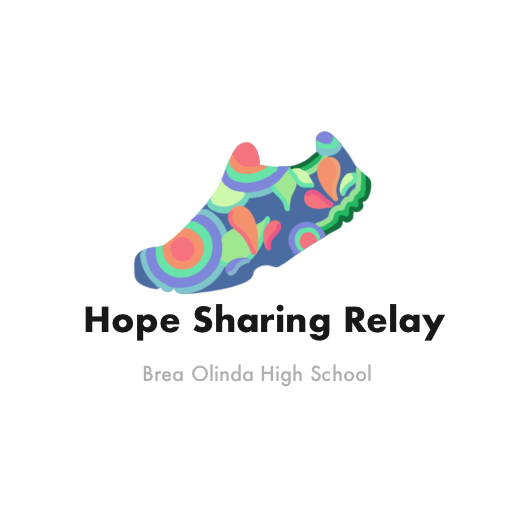
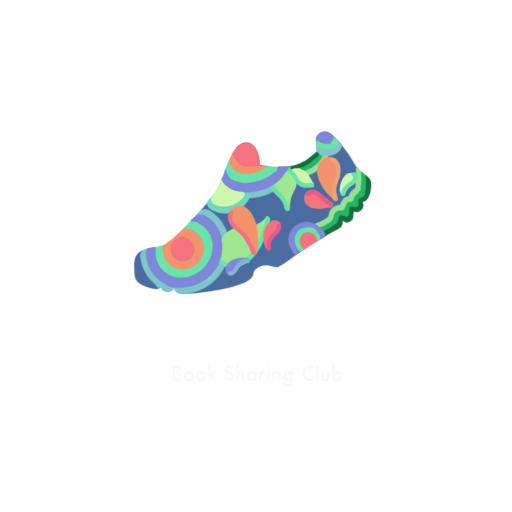
changed main image & no division only in main screen

Changed region(s): [[0.1562, 0.5938, 0.875, 0.6875], [0.2812, 0.7188, 0.75, 0.75]]

diff --git a/minimarathon/lib/component/header/header.dart b/minimarathon/lib/component/header/header.dart
@@ -8,23 +8,25 @@ class CustomHeader extends StatelessWidget {
 
   @override
   Widget build(BuildContext context) {
-    return new Scaffold(
-        appBar: new AppBar(
-          title: title,
-          elevation: this.title == "" ? 0.0 : 2.0,
-          shadowColor: white,
-          backgroundColor: pastelblue,
-          textTheme: TextTheme(headline6: TextStyle(color: white, fontWeight: FontWeight.bold, fontSize: 20.0)),
-        ),
-        body: GestureDetector(
-          onTap: () {
-            FocusScope.of(context).requestFocus(new FocusNode());
-          },
-          child: Container(
-            color: pastelblue,            
-            alignment: Alignment.center,
-            child: body,
+      return new Scaffold(
+          appBar: new AppBar(
+            title: title == "" ? Text("") : title,
+            elevation: title == "" ? 0.0 : 2.0,
+            shadowColor: title == "" ? Colors.transparent : white,
+            backgroundColor: pastelblue,
+            textTheme: TextTheme(
+                headline6: TextStyle(
+                    color: white, fontWeight: FontWeight.bold, fontSize: 20.0)),
           ),
-        ));
+          body: GestureDetector(
+            onTap: () {
+              FocusScope.of(context).requestFocus(new FocusNode());
+            },
+            child: Container(
+              color: pastelblue,
+              alignment: Alignment.center,
+              child: body,
+            ),
+          ));
   }
 }

diff --git a/minimarathon/lib/main.dart b/minimarathon/lib/main.dart
@@ -23,7 +23,7 @@ class MyApp extends StatelessWidget {
             // primaryColor: Colors.white,
             ),
         home: CustomHeader(
-          title: Text(''),
+          title: "",
           body: GestureDetector(
             onTap: () {
               FocusScope.of(context).requestFocus(new FocusNode());
